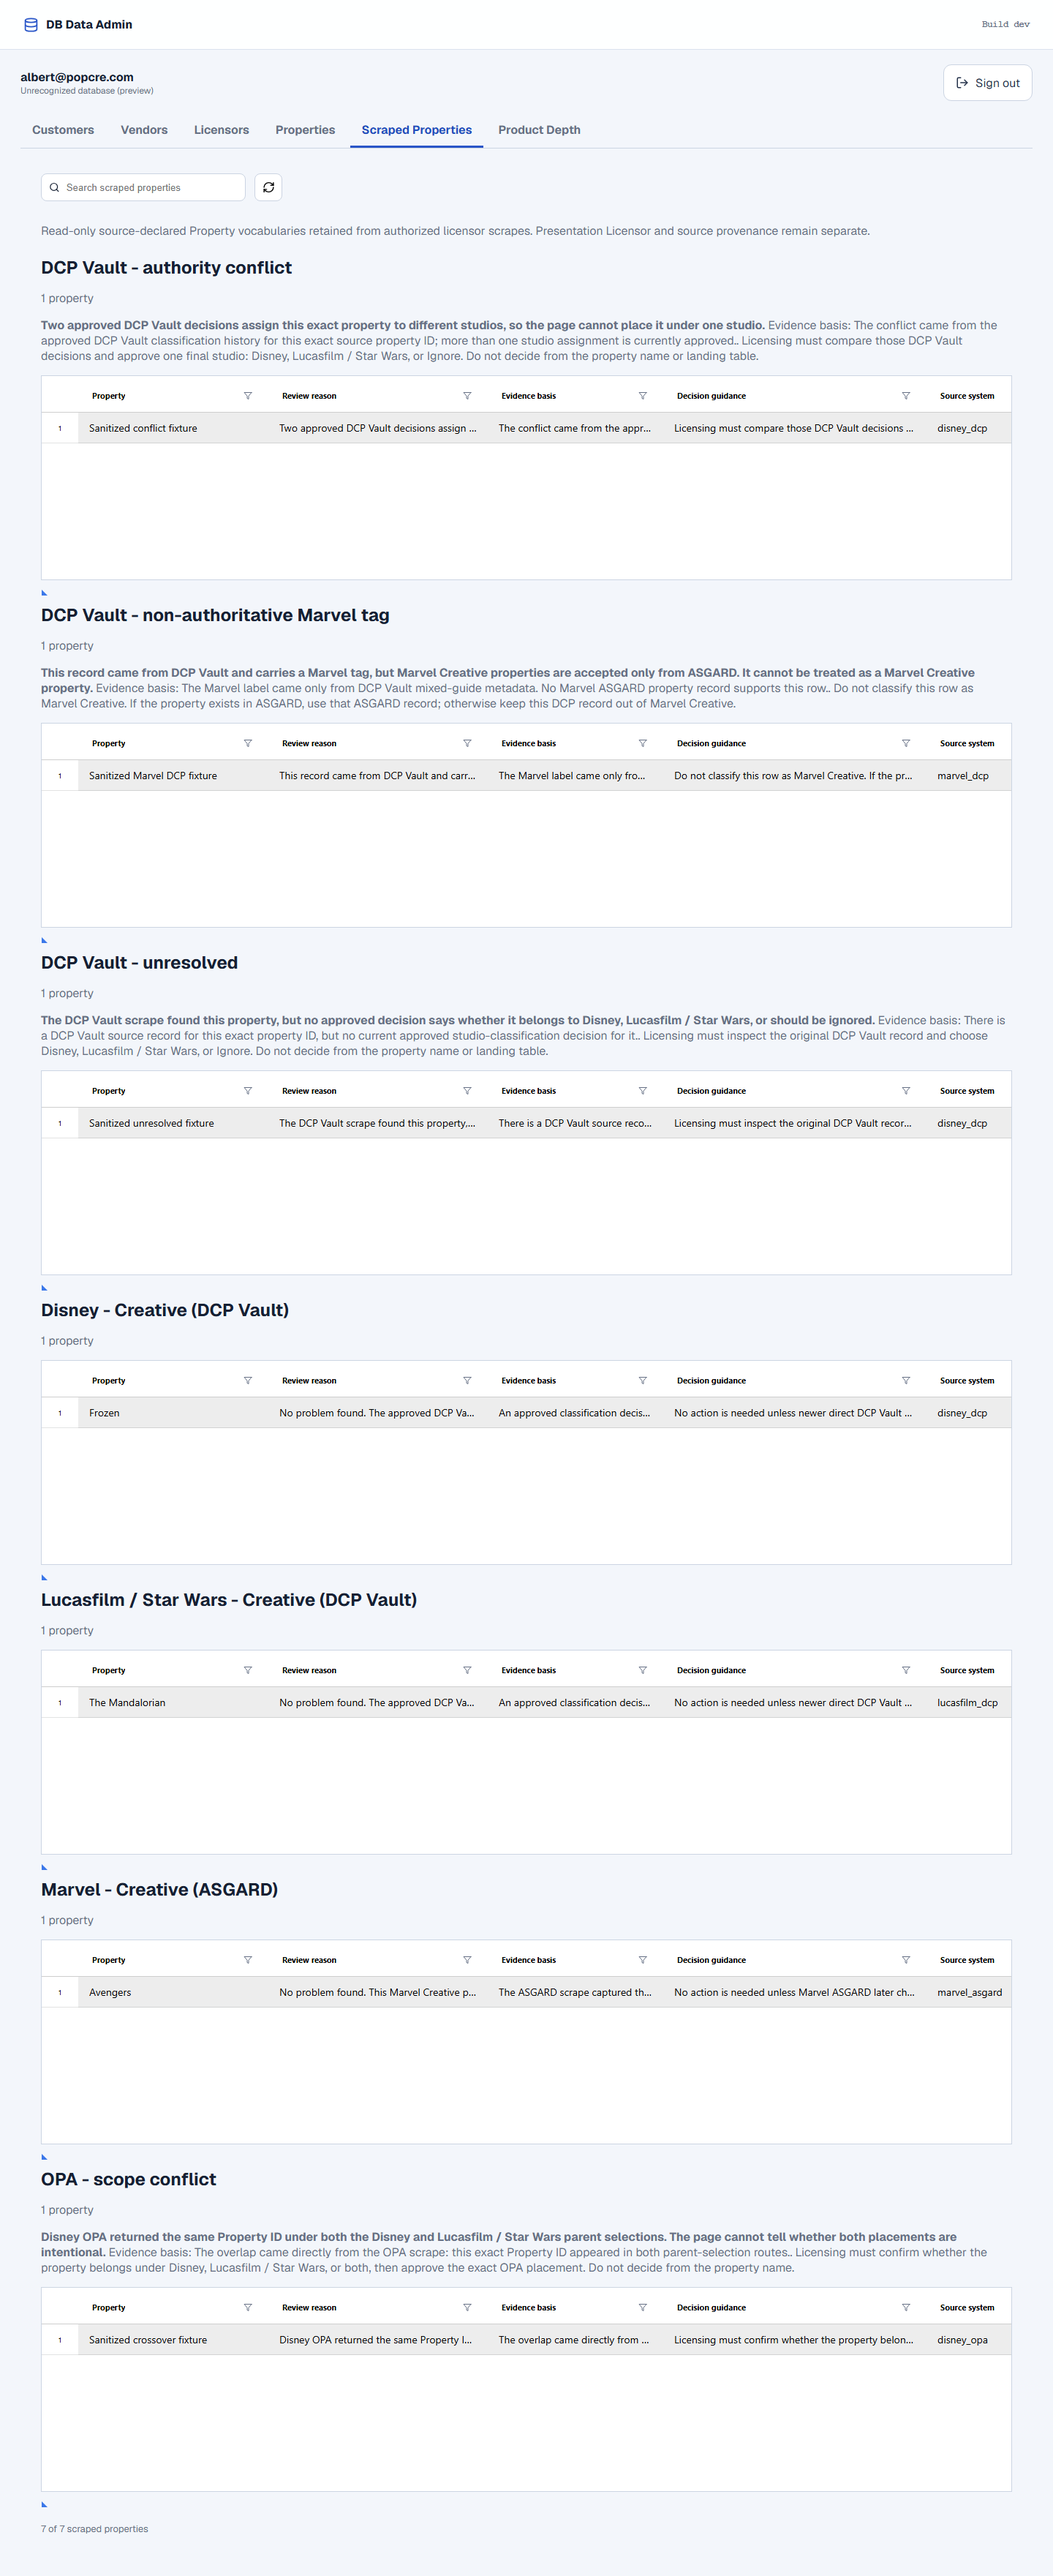
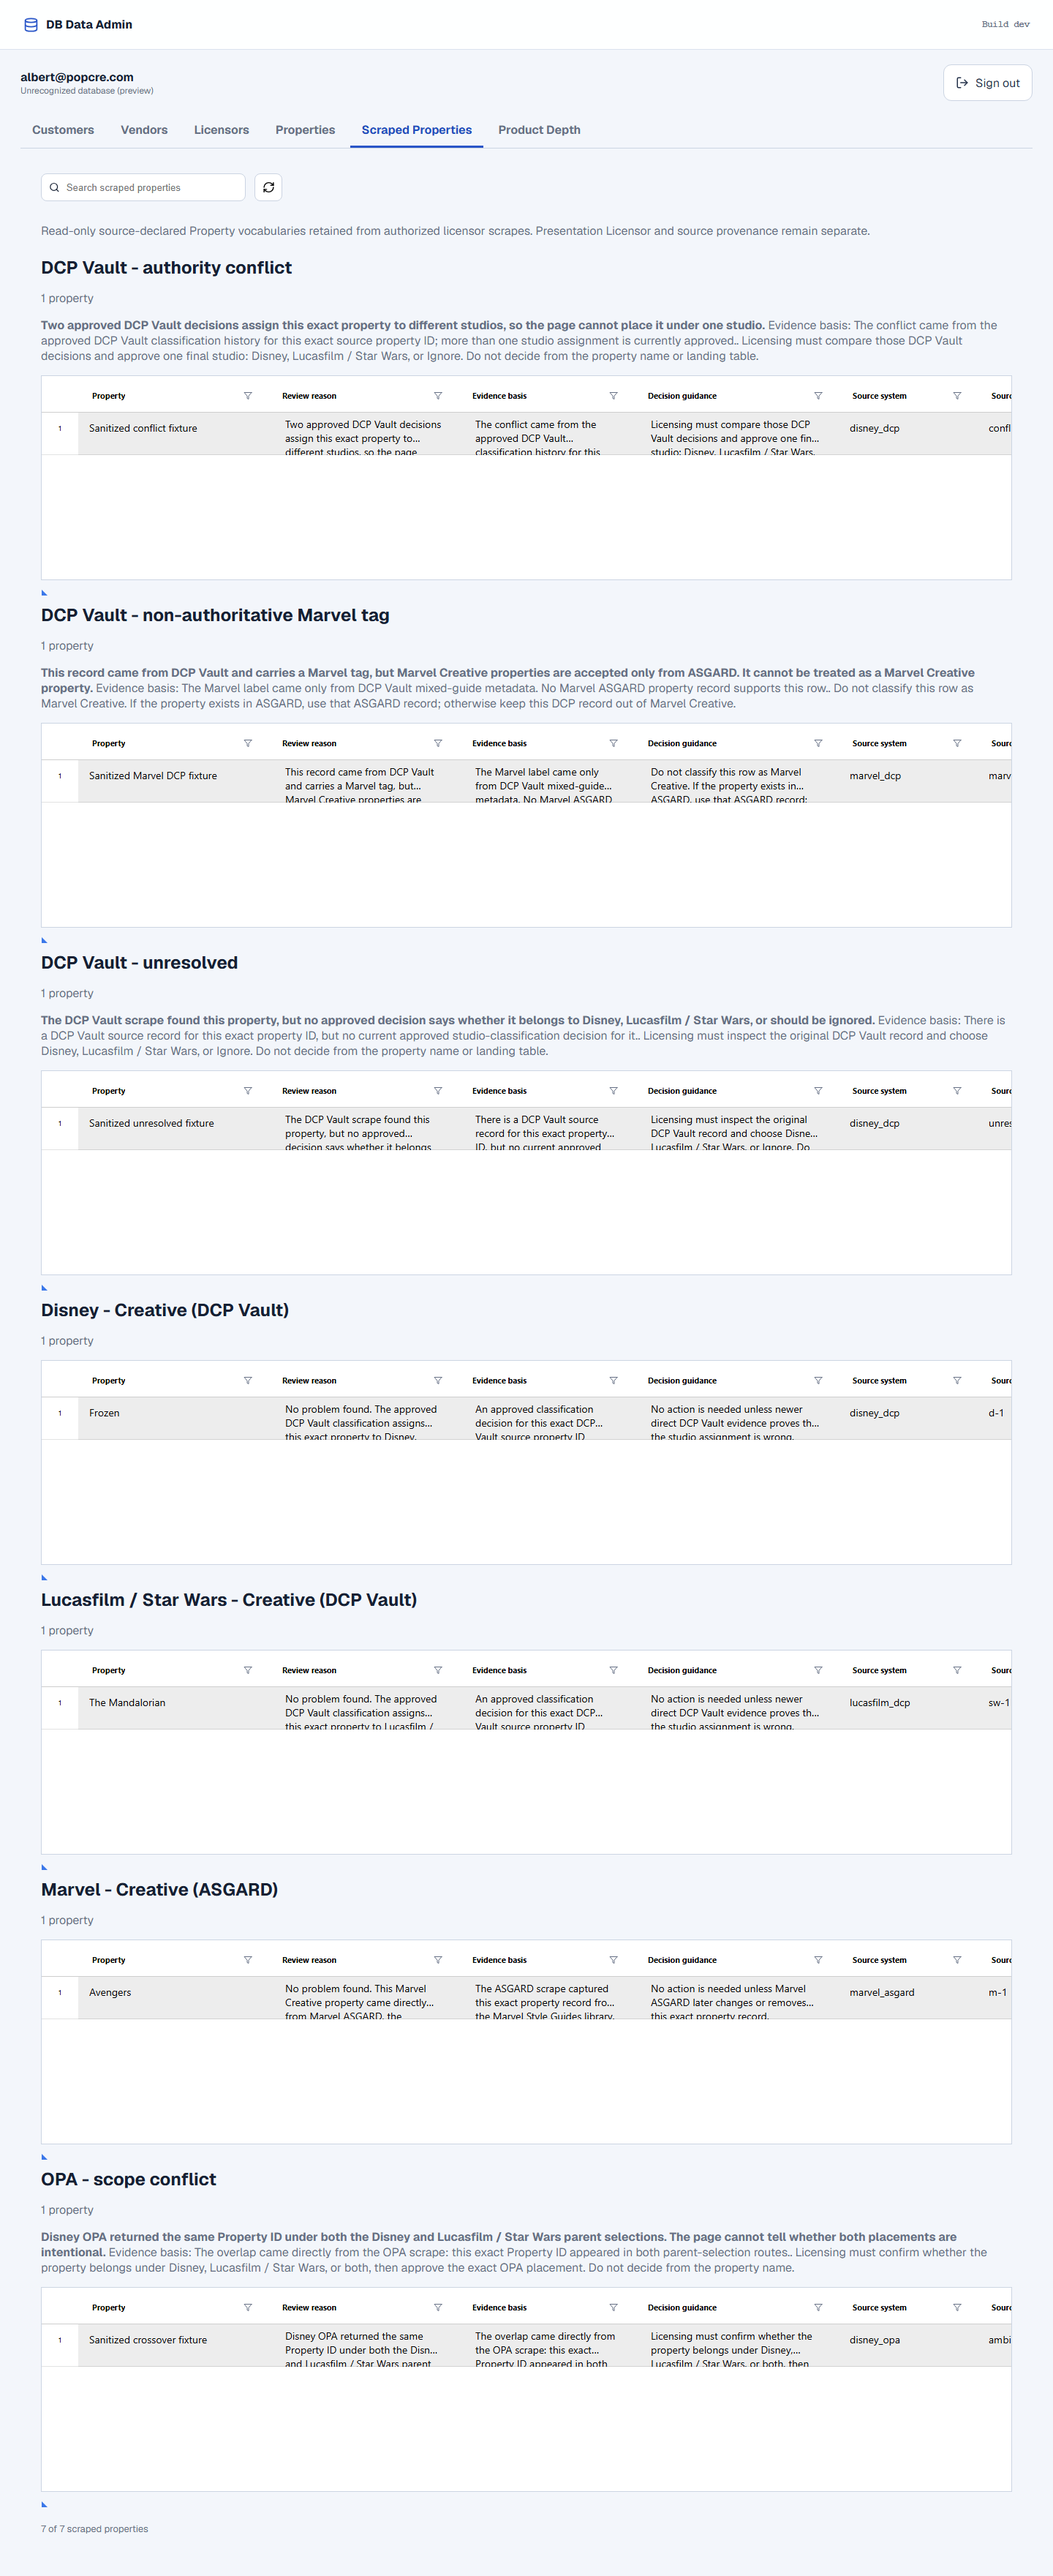
Make scraped property reviews readable

diff --git a/apps/db-data-admin/src/scraped-properties-columns.ts b/apps/db-data-admin/src/scraped-properties-columns.ts
@@ -1,10 +1,13 @@
-import type { ColumnRegular } from '@revolist/react-datagrid'
+import { Template, type ColumnRegular } from '@revolist/react-datagrid'
+import { ReviewTextCell } from './ReviewTextCell'
+
+const reviewTextTemplate = Template(ReviewTextCell)
 
 export const scrapedPropertiesColumns: ColumnRegular[] = [
   { prop: 'display_label', name: 'Property', size: 260, sortable: true },
-  { prop: 'review_reason', name: 'Review reason', size: 300, sortable: true },
-  { prop: 'evidence_basis', name: 'Evidence basis', size: 240, sortable: true },
-  { prop: 'review_guidance', name: 'Decision guidance', size: 360, sortable: true },
+  { prop: 'review_reason', name: 'Review reason', size: 260, sortable: true, cellTemplate: reviewTextTemplate },
+  { prop: 'evidence_basis', name: 'Evidence basis', size: 240, sortable: true, cellTemplate: reviewTextTemplate },
+  { prop: 'review_guidance', name: 'Decision guidance', size: 280, sortable: true, cellTemplate: reviewTextTemplate },
   { prop: 'source_system', name: 'Source system', size: 190, sortable: true },
   { prop: 'source_property_id', name: 'Source ID', size: 180, sortable: true },
   { prop: 'source_status', name: 'Source status', size: 130, sortable: true },

diff --git a/apps/db-data-admin/src/styles.css b/apps/db-data-admin/src/styles.css
@@ -37,6 +37,8 @@ h1 { margin: 18px 0 12px; font-size: clamp(36px, 6vw, 62px); line-height: 1; let
 .scraped-property-group { margin: 24px 0 32px; }
 .scraped-property-group h2 { margin-bottom: 4px; }
 .scraped-property-group .grid-wrap { height: 280px; min-height: 280px; }
+.review-text-cell { height: 100%; padding: 7px 8px; overflow: hidden; display: -webkit-box; -webkit-box-orient: vertical; -webkit-line-clamp: 2; white-space: normal; overflow-wrap: anywhere; line-height: 1.35; cursor: help; }
+.review-text-cell:focus-visible { outline: 2px solid #2955c8; outline-offset: -2px; border-radius: 3px; }
 .filter-header { position: relative; height: 48px; padding: 2px 4px; display: flex; flex-direction: column; gap: 2px; overflow: visible; }
 .filter-header-title { display: flex; align-items: center; justify-content: space-between; gap: 4px; min-width: 0; }
 .filter-header-title > span { font-size: 11px; font-weight: 700; white-space: nowrap; overflow: hidden; text-overflow: ellipsis; min-width: 0; }

diff --git a/apps/db-data-admin/tests/browser/grid.spec.ts b/apps/db-data-admin/tests/browser/grid.spec.ts
@@ -334,6 +334,11 @@ test('renders every scraped Property under distinct presentation Licensor headin
     'Evidence basis',
     'Decision guidance',
   ])
+  await expect.poll(() => scrapedGrid.evaluate(element => (element as HTMLElement & { rowSize: number }).rowSize)).toBe(58)
+  const reviewCell = page.locator('.review-text-cell').first()
+  await expect(reviewCell).toHaveAttribute('title', /No problem found|scrape|approved/i)
+  await expect(reviewCell).toHaveCSS('white-space', 'normal')
+  await expect(reviewCell).toHaveCSS('-webkit-line-clamp', '2')
   await expect(page.getByRole('gridcell', { name: 'The Mandalorian' })).toBeVisible()
   await expect(page.getByRole('gridcell', { name: 'lucasfilm_dcp', exact: true })).toBeVisible()
   const conflictDetail = page.getByRole('note', { name: 'DCP Vault - authority conflict review details' })

diff --git a/apps/db-data-admin/src/ScrapedPropertiesTable.tsx b/apps/db-data-admin/src/ScrapedPropertiesTable.tsx
@@ -81,7 +81,7 @@ export function ScrapedPropertiesTable({ client }: Props) {
             <strong>{row.review_reason}</strong> Evidence basis: {row.evidence_basis}. {row.review_guidance}
           </p>)}
         </div>}
-        <div className="grid-wrap"><RevoGrid theme="material" readonly accessible resize columns={gridColumns} source={group.rows} rowHeaders /></div>
+        <div className="grid-wrap"><RevoGrid theme="material" readonly accessible resize rowSize={58} columns={gridColumns} source={group.rows} rowHeaders /></div>
       </section>)}
       {loading && <div className="grid-loading">Loading…</div>}
     </div>

diff --git a/apps/db-data-admin/src/ReviewTextCell.tsx b/apps/db-data-admin/src/ReviewTextCell.tsx
@@ -1,0 +1,6 @@
+import type { ColumnDataSchemaModel, ColumnTemplateProp } from '@revolist/react-datagrid'
+
+export function ReviewTextCell(props: ColumnDataSchemaModel | ColumnTemplateProp) {
+  const text = String('value' in props ? props.value ?? '' : '')
+  return <div className="review-text-cell" title={text} aria-label={text} tabIndex={0}>{text}</div>
+}
